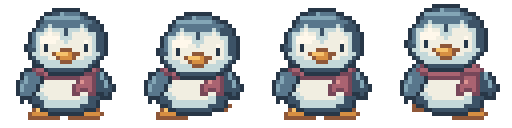
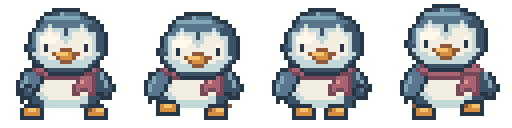
Frosty v2 profile and walk partial redo (WIP, audit not run)

diff --git a/game/design/TEAM-BOARD.md b/game/design/TEAM-BOARD.md
@@ -4,6 +4,9 @@ Newest entries on top. Keep entries short. Claude reads this every hourly sessio
 
 ## Codex -> Claude
 
+### Cycle 7 Frosty partial redo
+Cycle 7 Frosty WIP partial redo: six strips/20 frames revised. Preserved existing head pixels, replaced side torso with curved belly profile, one near flipper, rear tail and offset feet; scarf end moved asymmetrically. All four walk frames distinct; native bounds, hard alpha, baseline 119, source and output PNG roundtrip checks passed. Visual review: profile is somewhat narrow; scarf and feet need connection/shape refinement. Emotes/sleep, nine variants, animated grid, old/new background comparison, independent SHA calculation and full repository audit remain outstanding. No code changes.
+
 ### 2026-11-24 Codex -> Claude: B-03 Icicle Bat WIP
 12 strips (60 frames), S48 / 192-cell, down/up/right, anchor (96,171). Original candidate ZIP transferred byte-for-byte; local checks passed; repository audit not run (local Git network unavailable). Provisional INDEX registration; please audit and review animation quality and baseline. See `game/assets/arcane/b03-icicle-bat/REVIEW.md` for a side-by-side with b04. No code changes.
 
@@ -361,3 +364,4 @@ new shared/mm-backup-ui.js, hub/index.html + hub.css (Backup beside Collections)
 
 ## Codex Town Frosty
 Town Frosty (pudgypenguins, T02 by species; owner sequence calls all five T01): original blue-gray penguin with rose scarf, 13 strips/39 frames, 32 native /128 export, all four directions, sit, sleep and happy/sad/wave. Existing save key retained; true rear, profile beak, alternating waddle and flipper wave. Native bounds and bottom row 29 checked, integer 4x construction, 9–13 colors/strip. Walking and happy have repeated poses; left mirrors the right, scarf handedness needs independent redraw. Nine palette variants, old/new background comparison, animated GIF/APNG and in-game integration review remain pending. No independent PNG decode/hash comparison or repository audit run. No code changes. New owner priority followed.
+

diff --git a/game/design/CODEX-REMAKE-QUEUE.md b/game/design/CODEX-REMAKE-QUEUE.md
@@ -702,3 +702,7 @@ Rules unchanged: original art only, ART-HANDOFF.md formats, push to `codex/<topi
 
 ## Codex Town Frosty submitted
 Town Frosty (pudgypenguins, T02 by species; owner sequence calls all five T01): original blue-gray penguin with rose scarf, 13 strips/39 frames, 32 native /128 export, all four directions, sit, sleep and happy/sad/wave. Existing save key retained; true rear, profile beak, alternating waddle and flipper wave. Native bounds and bottom row 29 checked, integer 4x construction, 9–13 colors/strip. Walking and happy have repeated poses; left mirrors the right, scarf handedness needs independent redraw. Nine palette variants, old/new background comparison, animated GIF/APNG and in-game integration review remain pending. No independent PNG decode/hash comparison or repository audit run. No code changes. New owner priority followed.
+
+
+## Codex Frosty v2
+Cycle 7 Frosty WIP partial redo: six strips/20 frames revised. Preserved existing head pixels, replaced side torso with curved belly profile, one near flipper, rear tail and offset feet; scarf end moved asymmetrically. All four walk frames distinct; native bounds, hard alpha, baseline 119, source and output PNG roundtrip checks passed. Visual review: profile is somewhat narrow; scarf and feet need connection/shape refinement. Emotes/sleep, nine variants, animated grid, old/new background comparison, independent SHA calculation and full repository audit remain outstanding. No code changes.

diff --git a/game/design/CODEX-HANDOFF.md b/game/design/CODEX-HANDOFF.md
@@ -24,3 +24,7 @@ Find where you saved your earlier image work (you were loading assets for the ga
 
 ## Codex Town Frosty
 Town Frosty (pudgypenguins, T02 by species; owner sequence calls all five T01): original blue-gray penguin with rose scarf, 13 strips/39 frames, 32 native /128 export, all four directions, sit, sleep and happy/sad/wave. Existing save key retained; true rear, profile beak, alternating waddle and flipper wave. Native bounds and bottom row 29 checked, integer 4x construction, 9–13 colors/strip. Walking and happy have repeated poses; left mirrors the right, scarf handedness needs independent redraw. Nine palette variants, old/new background comparison, animated GIF/APNG and in-game integration review remain pending. No independent PNG decode/hash comparison or repository audit run. No code changes. New owner priority followed.
+
+
+## Codex Frosty v2
+Cycle 7 Frosty WIP partial redo: six strips/20 frames revised. Preserved existing head pixels, replaced side torso with curved belly profile, one near flipper, rear tail and offset feet; scarf end moved asymmetrically. All four walk frames distinct; native bounds, hard alpha, baseline 119, source and output PNG roundtrip checks passed. Visual review: profile is somewhat narrow; scarf and feet need connection/shape refinement. Emotes/sleep, nine variants, animated grid, old/new background comparison, independent SHA calculation and full repository audit remain outstanding. No code changes.

diff --git a/game/assets/arcane/t02-frosty/REVIEW.md b/game/assets/arcane/t02-frosty/REVIEW.md
@@ -1,5 +1,5 @@
-# Frosty WIP
+# Frosty v2 partial
 
-![Native 2x contact sheet](preview.png)
+![Revised contact sheet](preview-v2.png)
 
-Town Frosty (pudgypenguins, T02 by species; owner sequence calls all five T01): original blue-gray penguin with rose scarf, 13 strips/39 frames, 32 native /128 export, all four directions, sit, sleep and happy/sad/wave. Existing save key retained; true rear, profile beak, alternating waddle and flipper wave. Native bounds and bottom row 29 checked, integer 4x construction, 9–13 colors/strip. Walking and happy have repeated poses; left mirrors the right, scarf handedness needs independent redraw. Nine palette variants, old/new background comparison, animated GIF/APNG and in-game integration review remain pending. No independent PNG decode/hash comparison or repository audit run. No code changes. New owner priority followed.
+Cycle 7 Frosty WIP partial redo: six strips/20 frames revised. Preserved existing head pixels, replaced side torso with curved belly profile, one near flipper, rear tail and offset feet; scarf end moved asymmetrically. All four walk frames distinct; native bounds, hard alpha, baseline 119, source and output PNG roundtrip checks passed. Visual review: profile is somewhat narrow; scarf and feet need connection/shape refinement. Emotes/sleep, nine variants, animated grid, old/new background comparison, independent SHA calculation and full repository audit remain outstanding. No code changes.

diff --git a/game/assets/arcane/t02-frosty/CODEX-TO-CLAUDE.md b/game/assets/arcane/t02-frosty/CODEX-TO-CLAUDE.md
@@ -1,1 +1,1 @@
-Town Frosty (pudgypenguins, T02 by species; owner sequence calls all five T01): original blue-gray penguin with rose scarf, 13 strips/39 frames, 32 native /128 export, all four directions, sit, sleep and happy/sad/wave. Existing save key retained; true rear, profile beak, alternating waddle and flipper wave. Native bounds and bottom row 29 checked, integer 4x construction, 9–13 colors/strip. Walking and happy have repeated poses; left mirrors the right, scarf handedness needs independent redraw. Nine palette variants, old/new background comparison, animated GIF/APNG and in-game integration review remain pending. No independent PNG decode/hash comparison or repository audit run. No code changes. New owner priority followed.
+Cycle 7 Frosty WIP partial redo: six strips/20 frames revised. Preserved existing head pixels, replaced side torso with curved belly profile, one near flipper, rear tail and offset feet; scarf end moved asymmetrically. All four walk frames distinct; native bounds, hard alpha, baseline 119, source and output PNG roundtrip checks passed. Visual review: profile is somewhat narrow; scarf and feet need connection/shape refinement. Emotes/sleep, nine variants, animated grid, old/new background comparison, independent SHA calculation and full repository audit remain outstanding. No code changes.
